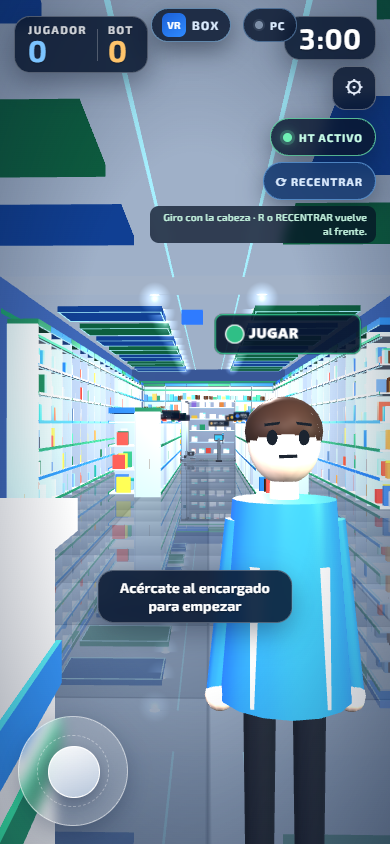
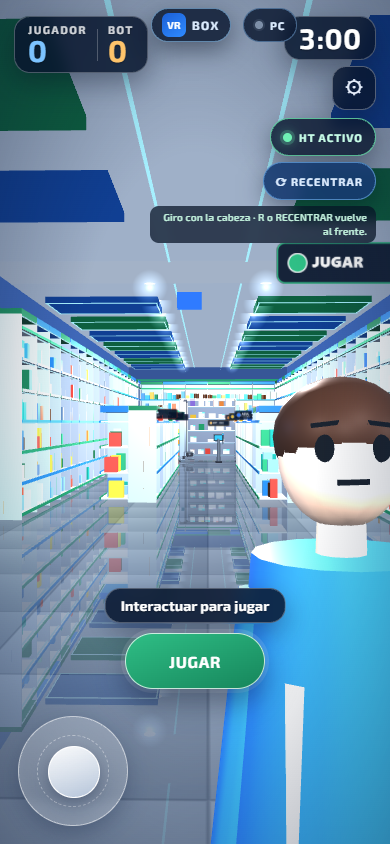
V19: keep Bluetooth gamepad working with touch joystick off

diff --git a/tools/test-v19-suite.js b/tools/test-v19-suite.js
@@ -11,6 +11,7 @@
   const out = [];
   const ok = (name, cond, data) => out.push({ name, pass: !!cond, data });
   const D = () => window.RasmaticGame.debug();
+  const G = () => window.RasmaticCore.game;
   const VR = () => window.RasmaticVR;
   const app = window.RasmaticApp || {};
   const HT = window.RasmaticHeadTracking || null;
@@ -122,18 +123,29 @@
       { key: SKEY('rasmatic.joystick'),
         value: localStorage.getItem(SKEY('rasmatic.joystick')) });
 
-    /* El mando Bluetooth no se ve afectado. */
-    if (window.RasmaticInput) {
-      RasmaticInput.gamepad({ mx: 0.7, my: 0, lx: 0, ly: 0, run: false });
-      await sleep(40);
+    /* El mando Bluetooth no se ve afectado: además del estado del puente,
+       se comprueba que el personaje se mueva de verdad con el joystick
+       táctil desactivado. */
+    if (window.RasmaticInput && G()) {
+      G().player.x = 0;
+      G().player.z = 30;
+      await sleep(250);
+      const z0 = G().player.z;
+      RasmaticInput.gamepad({ mx: 0, my: 1, lx: 0, ly: 0, run: false });
+      let z1 = z0;
+      for (let i = 0; i < 20 && z1 > z0 - 0.3; i++) {
+        await sleep(100);
+        z1 = G().player.z;
+      }
       const pad = RasmaticInput.debug().pad;
-      ok('V19-06 mando Bluetooth sigue funcionando con joystick off',
-        Math.abs(pad.mx - 0.7) < 0.01, pad);
       RasmaticInput.gamepad({ mx: 0, my: 0, lx: 0, ly: 0, run: false });
-      await sleep(30);
+      await sleep(80);
+      ok('V19-06 mando Bluetooth sigue moviendo con joystick off',
+        Math.abs(pad.my - 1) < 0.01 && z1 < z0 - 0.3,
+        { pad, z0: +z0.toFixed(2), z1: +z1.toFixed(2) });
     } else {
-      ok('V19-06 mando Bluetooth sigue funcionando con joystick off', false,
-        { error: 'RasmaticInput no disponible' });
+      ok('V19-06 mando Bluetooth sigue moviendo con joystick off', false,
+        { error: 'RasmaticInput o RasmaticCore.game no disponible' });
     }
 
     /* Reactivar. */

diff --git a/tools/build-ios.js b/tools/build-ios.js
@@ -368,9 +368,16 @@ if ('serviceWorker' in navigator && /^https?:$/.test(location.protocol) &&
     .update(v.id)
     .update(html)
     .update(fs.readFileSync(path.join(v.web, 'mobile', 'game.js')))
+    .update(fs.readFileSync(path.join(v.web, 'mobile', 'android-bridge.js')))
+    .update(fs.readFileSync(path.join(v.web, 'mobile', 'modes.js')))
     .update(fs.readFileSync(path.join(v.web, 'mobile', 'android-game.css')))
+    .update(fs.readFileSync(path.join(v.web, 'mobile', 'android-controls.css')))
+    .update(fs.readFileSync(path.join(v.web, 'ios', 'ios-bridge.js')))
+    .update(fs.readFileSync(path.join(v.web, 'ios', 'ios.css')))
     .update(fs.readFileSync(path.join(v.web, 'vr', 'vr-preview.js')))
-    .update(fs.readFileSync(path.join(v.web, 'vr', 'vr-preview.css')));
+    .update(fs.readFileSync(path.join(v.web, 'vr', 'vr-preview.css')))
+    .update(fs.readFileSync(path.join(v.web, 'net', 'vr-link.js')))
+    .update(fs.readFileSync(path.join(v.web, 'net', 'vr-link.css')));
   if (v.headTracking) {
     hash.update(fs.readFileSync(path.join(v.web, 'headtracking', 'head-tracking.js')))
       .update(fs.readFileSync(path.join(v.web, 'headtracking', 'head-tracking.css')));

diff --git a/ios/RasmaticClassic/www/mobile/android-bridge.js b/ios/RasmaticClassic/www/mobile/android-bridge.js
@@ -77,9 +77,12 @@
     const stick = stickAllowed();
     const padActive = Math.hypot(pad.mx, pad.my) > 0.001;
     const running = !menu && (touch.run || pad.run);
+    /* El mando físico manda siempre que su stick no esté en reposo. La
+       opción de joystick solo apaga el TÁCTIL: si el mando está activo,
+       su movimiento debe seguir llegando al juego. */
     core.input({
-      mx: menu || !stick ? 0 : (padActive ? pad.mx : touch.mx),
-      my: menu || !stick ? 0 : (padActive ? pad.my : touch.my),
+      mx: menu ? 0 : (padActive ? pad.mx : (stick ? touch.mx : 0)),
+      my: menu ? 0 : (padActive ? pad.my : (stick ? touch.my : 0)),
       lx: menu ? 0 : pad.lx,
       ly: menu ? 0 : pad.ly,
       run: running

diff --git a/ios/RasmaticHeadTracking/www/mobile/android-bridge.js b/ios/RasmaticHeadTracking/www/mobile/android-bridge.js
@@ -77,9 +77,12 @@
     const stick = stickAllowed();
     const padActive = Math.hypot(pad.mx, pad.my) > 0.001;
     const running = !menu && (touch.run || pad.run);
+    /* El mando físico manda siempre que su stick no esté en reposo. La
+       opción de joystick solo apaga el TÁCTIL: si el mando está activo,
+       su movimiento debe seguir llegando al juego. */
     core.input({
-      mx: menu || !stick ? 0 : (padActive ? pad.mx : touch.mx),
-      my: menu || !stick ? 0 : (padActive ? pad.my : touch.my),
+      mx: menu ? 0 : (padActive ? pad.mx : (stick ? touch.mx : 0)),
+      my: menu ? 0 : (padActive ? pad.my : (stick ? touch.my : 0)),
       lx: menu ? 0 : pad.lx,
       ly: menu ? 0 : pad.ly,
       run: running

diff --git a/web-classic/mobile/android-bridge.js b/web-classic/mobile/android-bridge.js
@@ -77,9 +77,12 @@
     const stick = stickAllowed();
     const padActive = Math.hypot(pad.mx, pad.my) > 0.001;
     const running = !menu && (touch.run || pad.run);
+    /* El mando físico manda siempre que su stick no esté en reposo. La
+       opción de joystick solo apaga el TÁCTIL: si el mando está activo,
+       su movimiento debe seguir llegando al juego. */
     core.input({
-      mx: menu || !stick ? 0 : (padActive ? pad.mx : touch.mx),
-      my: menu || !stick ? 0 : (padActive ? pad.my : touch.my),
+      mx: menu ? 0 : (padActive ? pad.mx : (stick ? touch.mx : 0)),
+      my: menu ? 0 : (padActive ? pad.my : (stick ? touch.my : 0)),
       lx: menu ? 0 : pad.lx,
       ly: menu ? 0 : pad.ly,
       run: running

diff --git a/web/mobile/android-bridge.js b/web/mobile/android-bridge.js
@@ -77,9 +77,12 @@
     const stick = stickAllowed();
     const padActive = Math.hypot(pad.mx, pad.my) > 0.001;
     const running = !menu && (touch.run || pad.run);
+    /* El mando físico manda siempre que su stick no esté en reposo. La
+       opción de joystick solo apaga el TÁCTIL: si el mando está activo,
+       su movimiento debe seguir llegando al juego. */
     core.input({
-      mx: menu || !stick ? 0 : (padActive ? pad.mx : touch.mx),
-      my: menu || !stick ? 0 : (padActive ? pad.my : touch.my),
+      mx: menu ? 0 : (padActive ? pad.mx : (stick ? touch.mx : 0)),
+      my: menu ? 0 : (padActive ? pad.my : (stick ? touch.my : 0)),
       lx: menu ? 0 : pad.lx,
       ly: menu ? 0 : pad.ly,
       run: running

diff --git a/ios/RasmaticClassic/www/sw.js b/ios/RasmaticClassic/www/sw.js
@@ -1,7 +1,7 @@
 /* Generado por tools/build-ios.js - no editar a mano.
    Variante: classic
-   Build: c1476918ab3dacc5 */
-const CACHE = 'rasmatic-classic-c1476918ab3dacc5';
+   Build: a196a578abfc51f5 */
+const CACHE = 'rasmatic-classic-a196a578abfc51f5';
 const PRECACHE = [
   "./",
   "./index.html",

diff --git a/web-classic/sw.js b/web-classic/sw.js
@@ -1,7 +1,7 @@
 /* Generado por tools/build-ios.js - no editar a mano.
    Variante: classic
-   Build: c1476918ab3dacc5 */
-const CACHE = 'rasmatic-classic-c1476918ab3dacc5';
+   Build: a196a578abfc51f5 */
+const CACHE = 'rasmatic-classic-a196a578abfc51f5';
 const PRECACHE = [
   "./",
   "./index.html",

diff --git a/ios/RasmaticHeadTracking/www/sw.js b/ios/RasmaticHeadTracking/www/sw.js
@@ -1,7 +1,7 @@
 /* Generado por tools/build-ios.js - no editar a mano.
    Variante: headtracking
-   Build: fc6b79f9fb4d80d7 */
-const CACHE = 'rasmatic-ht-fc6b79f9fb4d80d7';
+   Build: e9b7b839ed4c96a7 */
+const CACHE = 'rasmatic-ht-e9b7b839ed4c96a7';
 const PRECACHE = [
   "./",
   "./index.html",

diff --git a/web/sw.js b/web/sw.js
@@ -1,7 +1,7 @@
 /* Generado por tools/build-ios.js - no editar a mano.
    Variante: headtracking
-   Build: fc6b79f9fb4d80d7 */
-const CACHE = 'rasmatic-ht-fc6b79f9fb4d80d7';
+   Build: e9b7b839ed4c96a7 */
+const CACHE = 'rasmatic-ht-e9b7b839ed4c96a7';
 const PRECACHE = [
   "./",
   "./index.html",

diff --git a/docs/v19-dos-apps.md b/docs/v19-dos-apps.md
@@ -270,7 +270,7 @@ No se afirma que el head tracking esté validado físicamente.
[8 lines of base64/hex data omitted]
@@ -279,8 +279,8 @@ No se afirma que el head tracking esté validado físicamente.
 
 Service workers:
 
-- Head Tracking: `rasmatic-ht-fc6b79f9fb4d80d7`
-- Classic: `rasmatic-classic-c1476918ab3dacc5`
+- Head Tracking: `rasmatic-ht-e9b7b839ed4c96a7`
+- Classic: `rasmatic-classic-a196a578abfc51f5`
 
 Estos hashes corresponden a la compilación local del 26/11/2026. Los `.ipa`
 reales se generan en macOS y su SHA-256 lo imprime `tools/build-ipa.sh` y el
